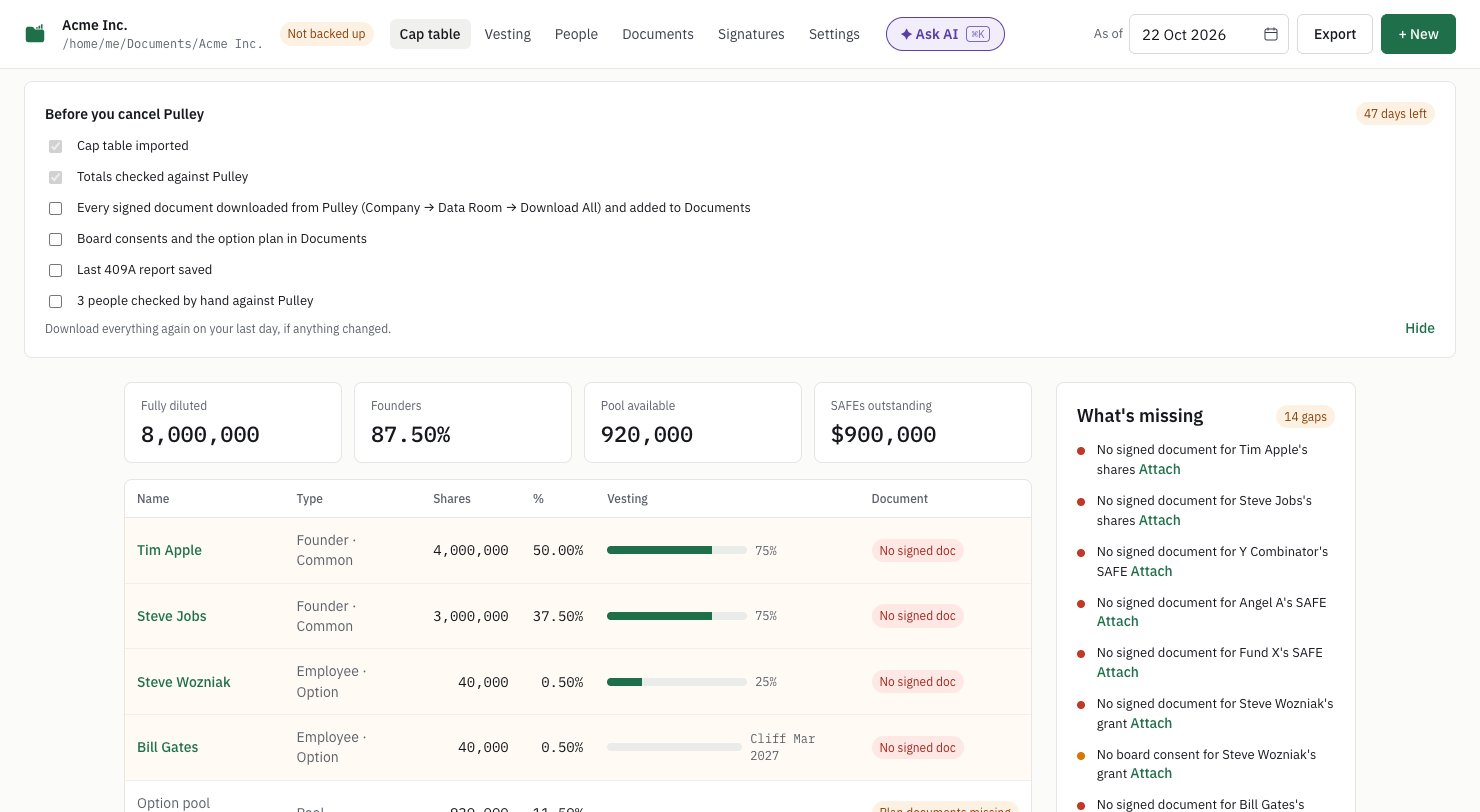
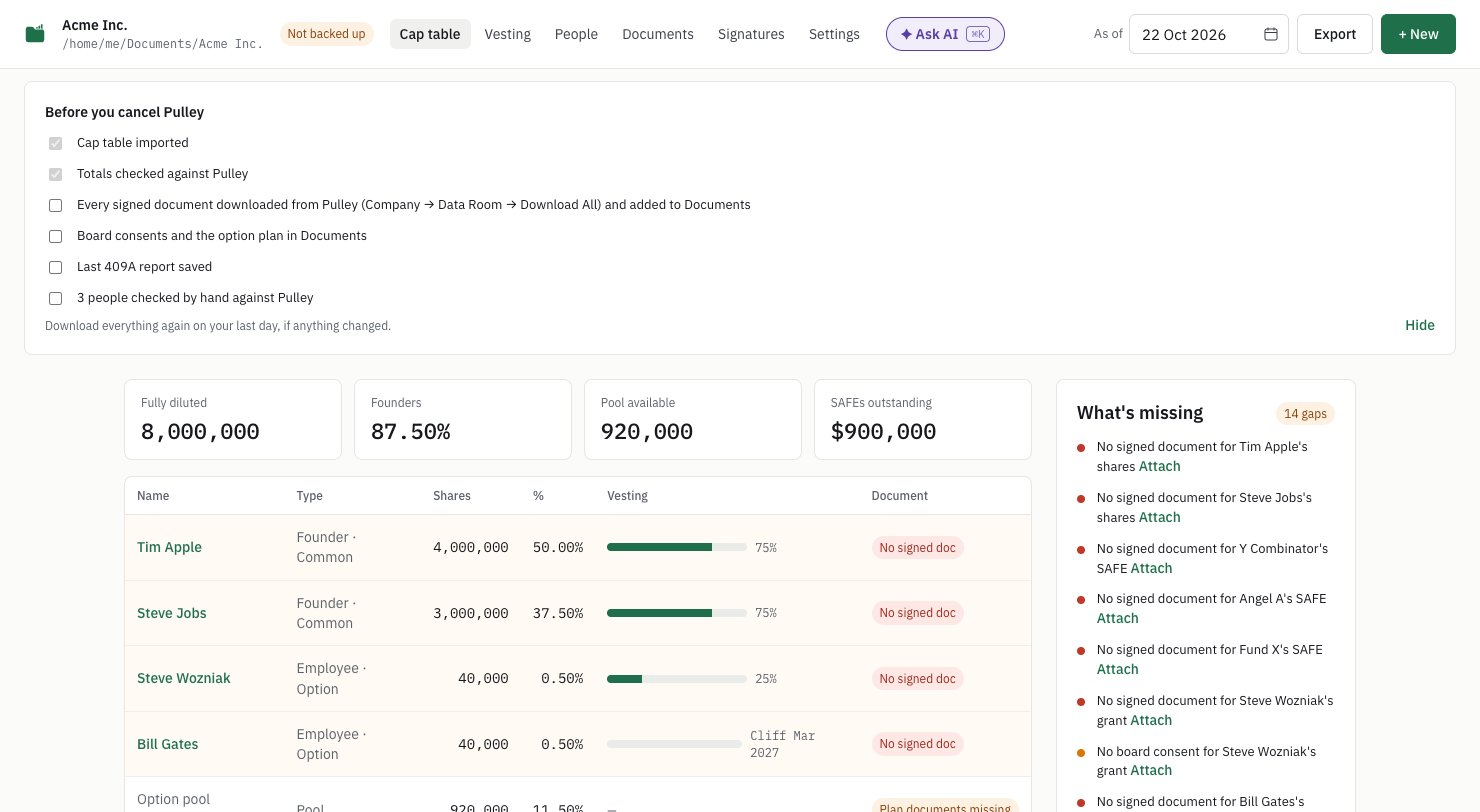
Import help: no 'days left' in the screenshot or alt text (a static page can't keep it current)

diff --git a/apps/website/help/import/index.html b/apps/website/help/import/index.html
@@ -66,7 +66,7 @@ dl{margin:8px 0 0}dt{font-weight:600;margin-top:12px}dd{margin:2px 0 0;color:#3A
 
   <h2>3. Match the columns</h2>
   <p>Capfolder finds the row with the column names and guesses what each column holds. Check the guesses against the first values on the right, fix any that are wrong, and click <b>Continue</b>.</p>
-  <figure><button type="button" class="shot" aria-label="Enlarge screenshot"><img src="/help/img/import-3-columns.jpg?v=1" width="1080" height="1361" alt="Match the columns for acme-cap-table.csv: each column of the file, such as Stakeholder, Shares and Vesting start date, with what it holds in Capfolder and its first values, for example Tim Apple, Steve Jobs, Steve Wozniak." loading="lazy"><span class="hl" style="left:5.3%;top:16.7%;width:89.4%;height:75.7%"></span><span class="hl" style="left:84.7%;top:92%;width:10%;height:4.1%"></span></button><figcaption>Capfolder guesses each column. Change any guess that's wrong, or set a column to Ignore.</figcaption></figure>
+  <figure><button type="button" class="shot" aria-label="Enlarge screenshot"><img src="/help/img/import-3-columns.jpg?v=2" width="1080" height="1361" alt="Match the columns for acme-cap-table.csv: each column of the file, such as Stakeholder, Shares and Vesting start date, with what it holds in Capfolder and its first values, for example Tim Apple, Steve Jobs, Steve Wozniak." loading="lazy"><span class="hl" style="left:5.3%;top:16.7%;width:89.4%;height:75.7%"></span><span class="hl" style="left:84.7%;top:92%;width:10%;height:4.1%"></span></button><figcaption>Capfolder guesses each column. Change any guess that's wrong, or set a column to Ignore.</figcaption></figure>
 
   <h2>4. Compare with your old tool</h2>
   <p>On <b>Check and save</b>, fill in <b>Compare with Pulley</b> (or Carta, or Cake) with the totals your old tool shows on its summary. Only <b>Fully diluted</b> is required. Each number you type gets <b>✓ Match</b>, or a line that says how far off it is.</p>
@@ -80,7 +80,7 @@ dl{margin:8px 0 0}dt{font-weight:600;margin-top:12px}dd{margin:2px 0 0;color:#3A
 
   <h2>5. Add your documents, then finish the move</h2>
   <p>After saving, Documents opens: the export didn't include your signed documents, so drop them in there. Back on the cap table, the <b>Before you cancel Pulley</b> card lists what's left to do. Tick each step as you go.</p>
-  <figure><button type="button" class="shot" aria-label="Enlarge screenshot"><img src="/help/img/import-5-before-you-cancel.jpg?v=1" width="1480" height="812" alt="The cap table after the import, with the Before you cancel Pulley card on top: Cap table imported and Totals checked against Pulley ticked, four steps left, and 47 days left until Pulley closes." loading="lazy"><span class="hl" style="left:1.1%;top:9%;width:97.8%;height:36.1%"></span></button><figcaption>The card stays until every step is ticked or you click Hide.</figcaption></figure>
+  <figure><button type="button" class="shot" aria-label="Enlarge screenshot"><img src="/help/img/import-5-before-you-cancel.jpg?v=2" width="1480" height="812" alt="The cap table after the import, with the Before you cancel Pulley card on top: Cap table imported and Totals checked against Pulley ticked and four steps left." loading="lazy"><span class="hl" style="left:1.1%;top:9%;width:97.8%;height:35.8%"></span></button><figcaption>The card stays until every step is ticked or you click Hide.</figcaption></figure>
 
   <h2>Words used here</h2>
   <dl>

diff --git a/apps/website/migrate/from-pulley/index.html b/apps/website/migrate/from-pulley/index.html
@@ -73,7 +73,7 @@ figcaption{font-size:14px;color:#5B606B;margin-top:6px}
     <li>Drop your signed documents into Documents. Capfolder files each one against the cap table and lists what's missing.</li>
     <li>Work through <b>Before you cancel Pulley</b> on the cap table: it counts the days left.</li>
   </ol>
-  <figure><button type="button" class="shot" aria-label="Enlarge screenshot"><img src="/help/img/import-5-before-you-cancel.jpg?v=1" width="1480" height="812" alt="The cap table after the import, with the Before you cancel Pulley card on top: Cap table imported and Totals checked against Pulley ticked, four steps left, and 47 days left until Pulley closes." loading="lazy"><span class="hl" style="left:1.1%;top:9%;width:97.8%;height:36.1%"></span></button><figcaption>The card stays until every step is ticked or you click Hide.</figcaption></figure>
+  <figure><button type="button" class="shot" aria-label="Enlarge screenshot"><img src="/help/img/import-5-before-you-cancel.jpg?v=2" width="1480" height="812" alt="The cap table after the import, with the Before you cancel Pulley card on top: Cap table imported and Totals checked against Pulley ticked and four steps left." loading="lazy"><span class="hl" style="left:1.1%;top:9%;width:97.8%;height:35.8%"></span></button><figcaption>The card stays until every step is ticked or you click Hide.</figcaption></figure>
   <p><a href="/help/import/">Step by step, with screenshots →</a> · <a href="/features/import/">How the import checks your numbers →</a></p>
 
   <h2>What Capfolder checks for you</h2>
